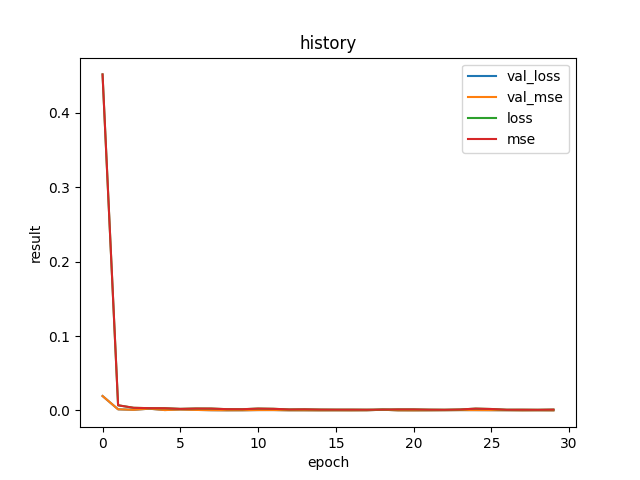
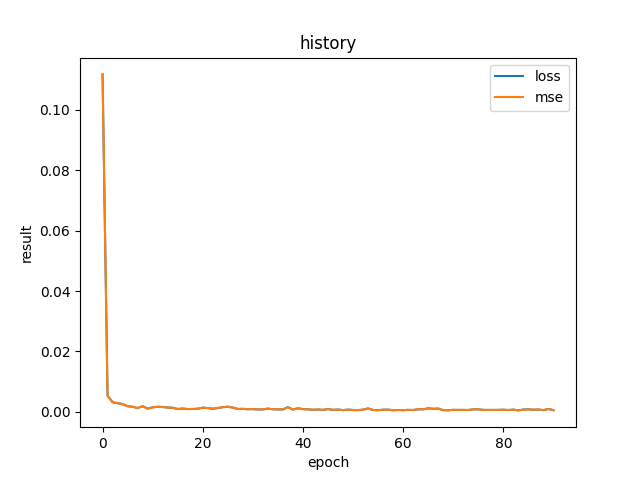
fix: setting/readme/image/output update

diff --git a/app.py b/app.py
@@ -68,7 +68,7 @@ if __name__ == "__main__":
     RATIO = 0.8
     PATIENCE = 20 # 容忍度
     BATCH_SIZE = 32
-    EPOCHS = 30
+    EPOCHS = 200
     
     # load training data
     df1 = pd.read_csv(args.training, header=None, usecols=[0, 1, 2, 3], names=["open", "high", "low", "close"])
@@ -120,8 +120,8 @@ if __name__ == "__main__":
         validation_data=(x_test, y_test), batch_size=BATCH_SIZE, epochs=EPOCHS)
 
     fig, ax = plt.subplots()
-    ax.plot(history['loss'], label='loss')
-    ax.plot(history['mse'], label='mse')
+    ax.plot(history.history['loss'], label='loss')
+    ax.plot(history.history['mse'], label='mse')
     ax.set_ylabel('result')
     ax.set_xlabel('epoch')
     ax.set_title('history')
